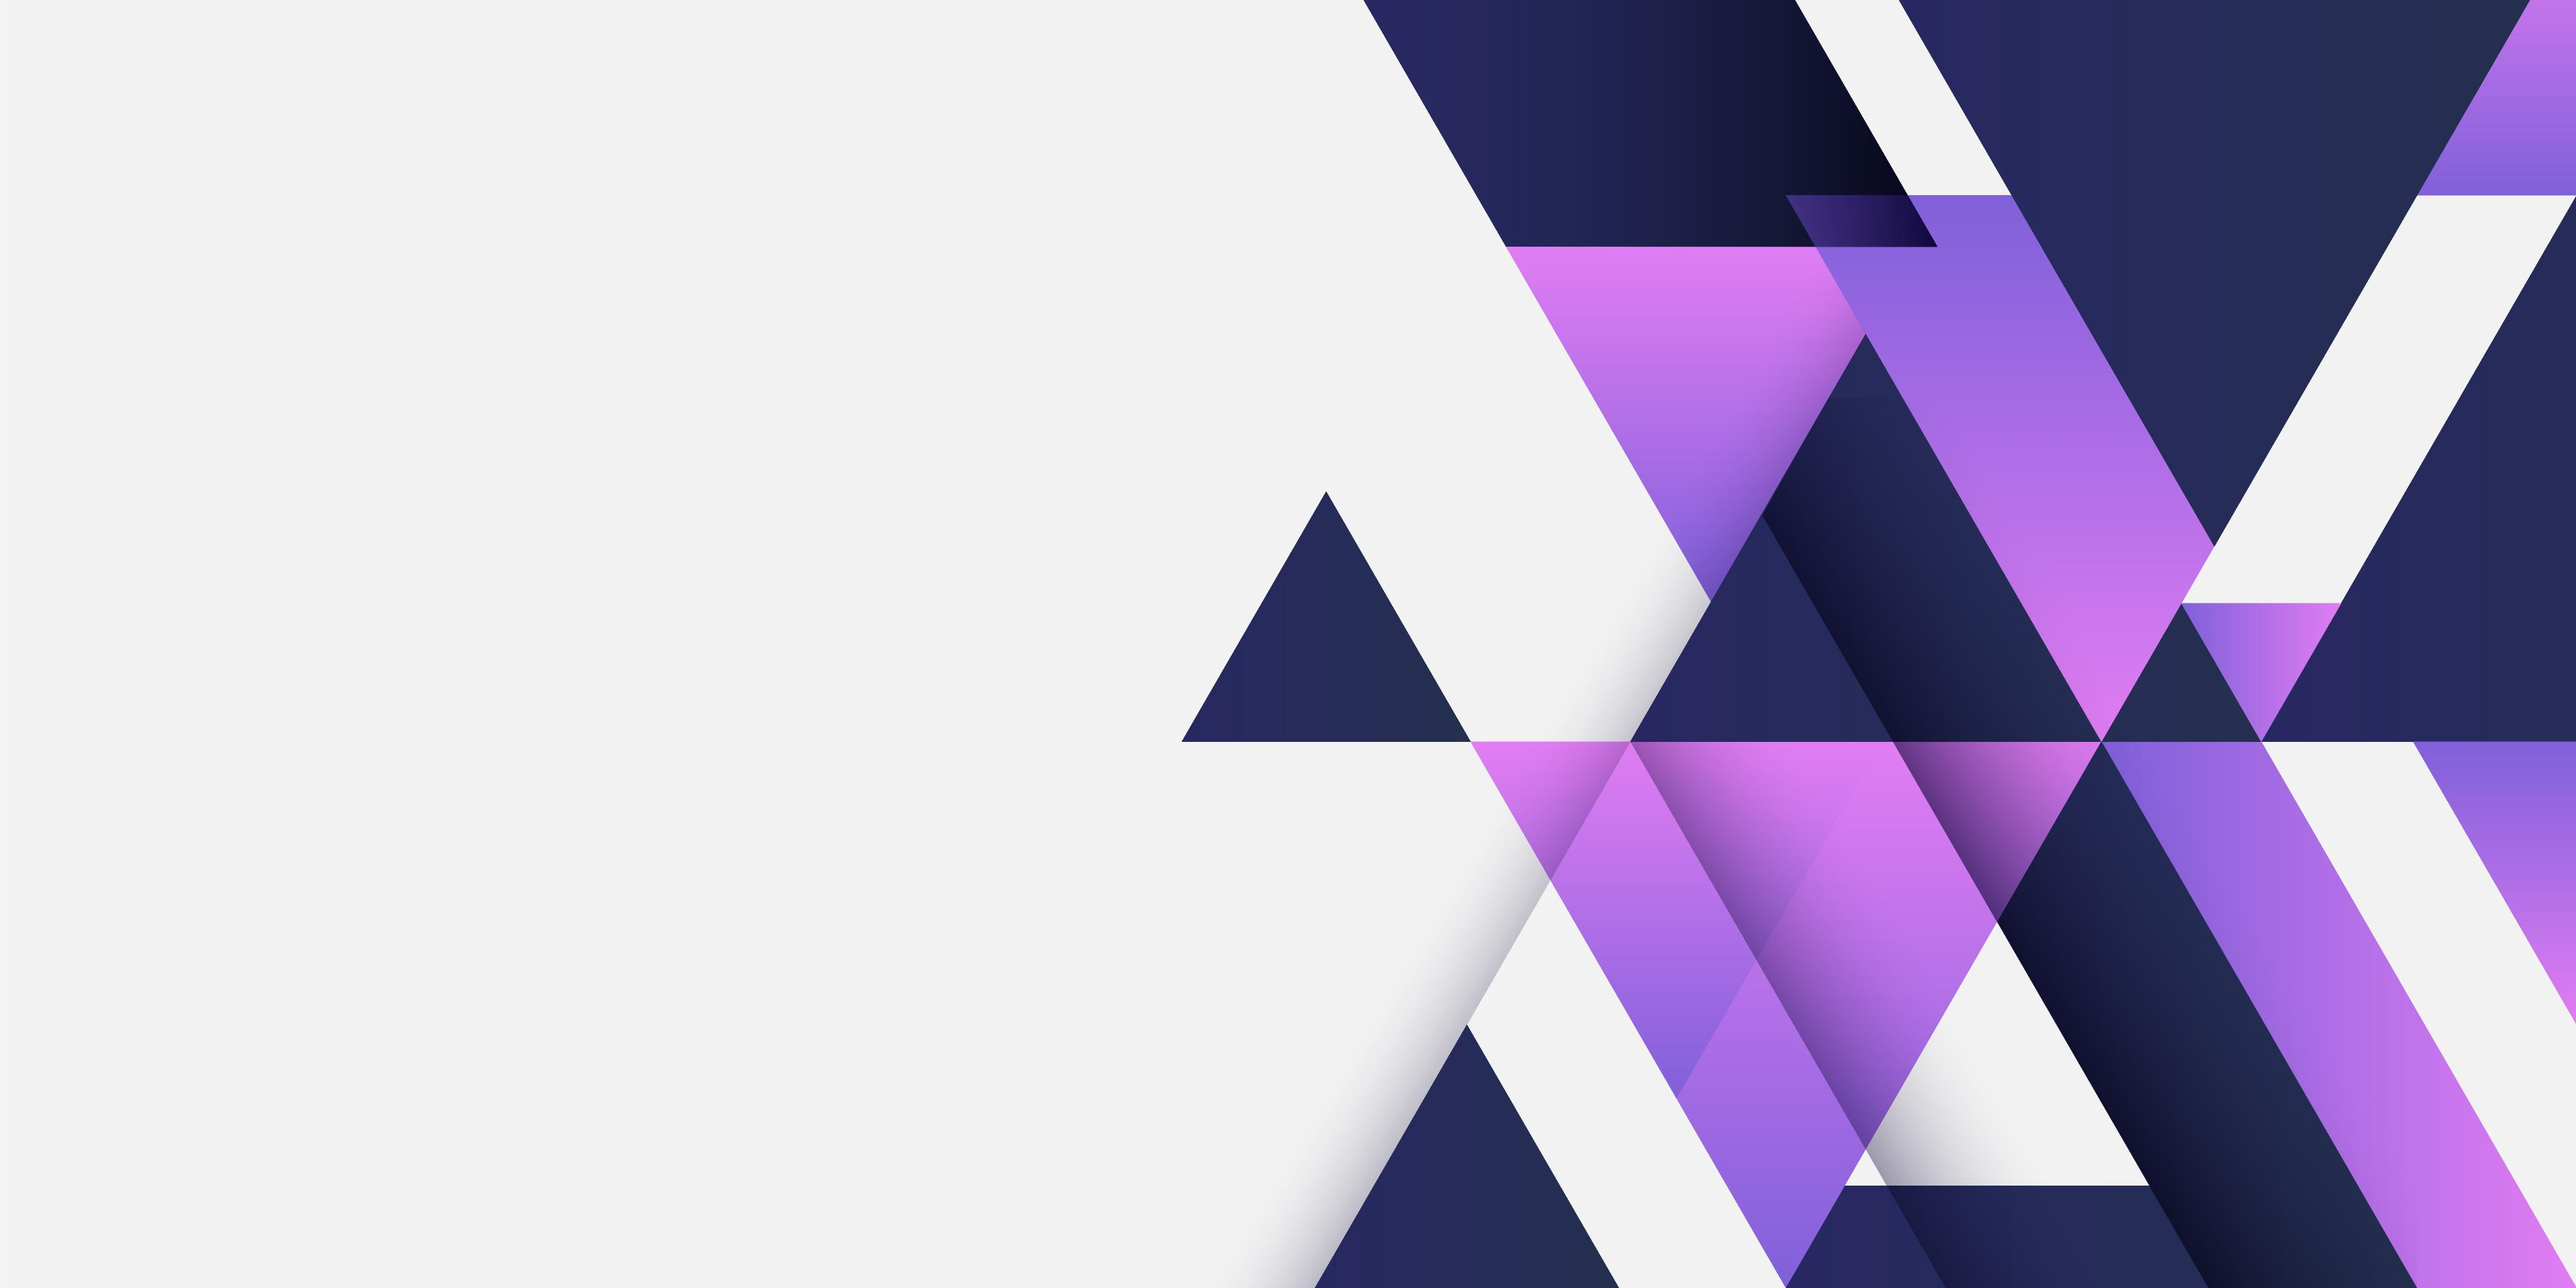
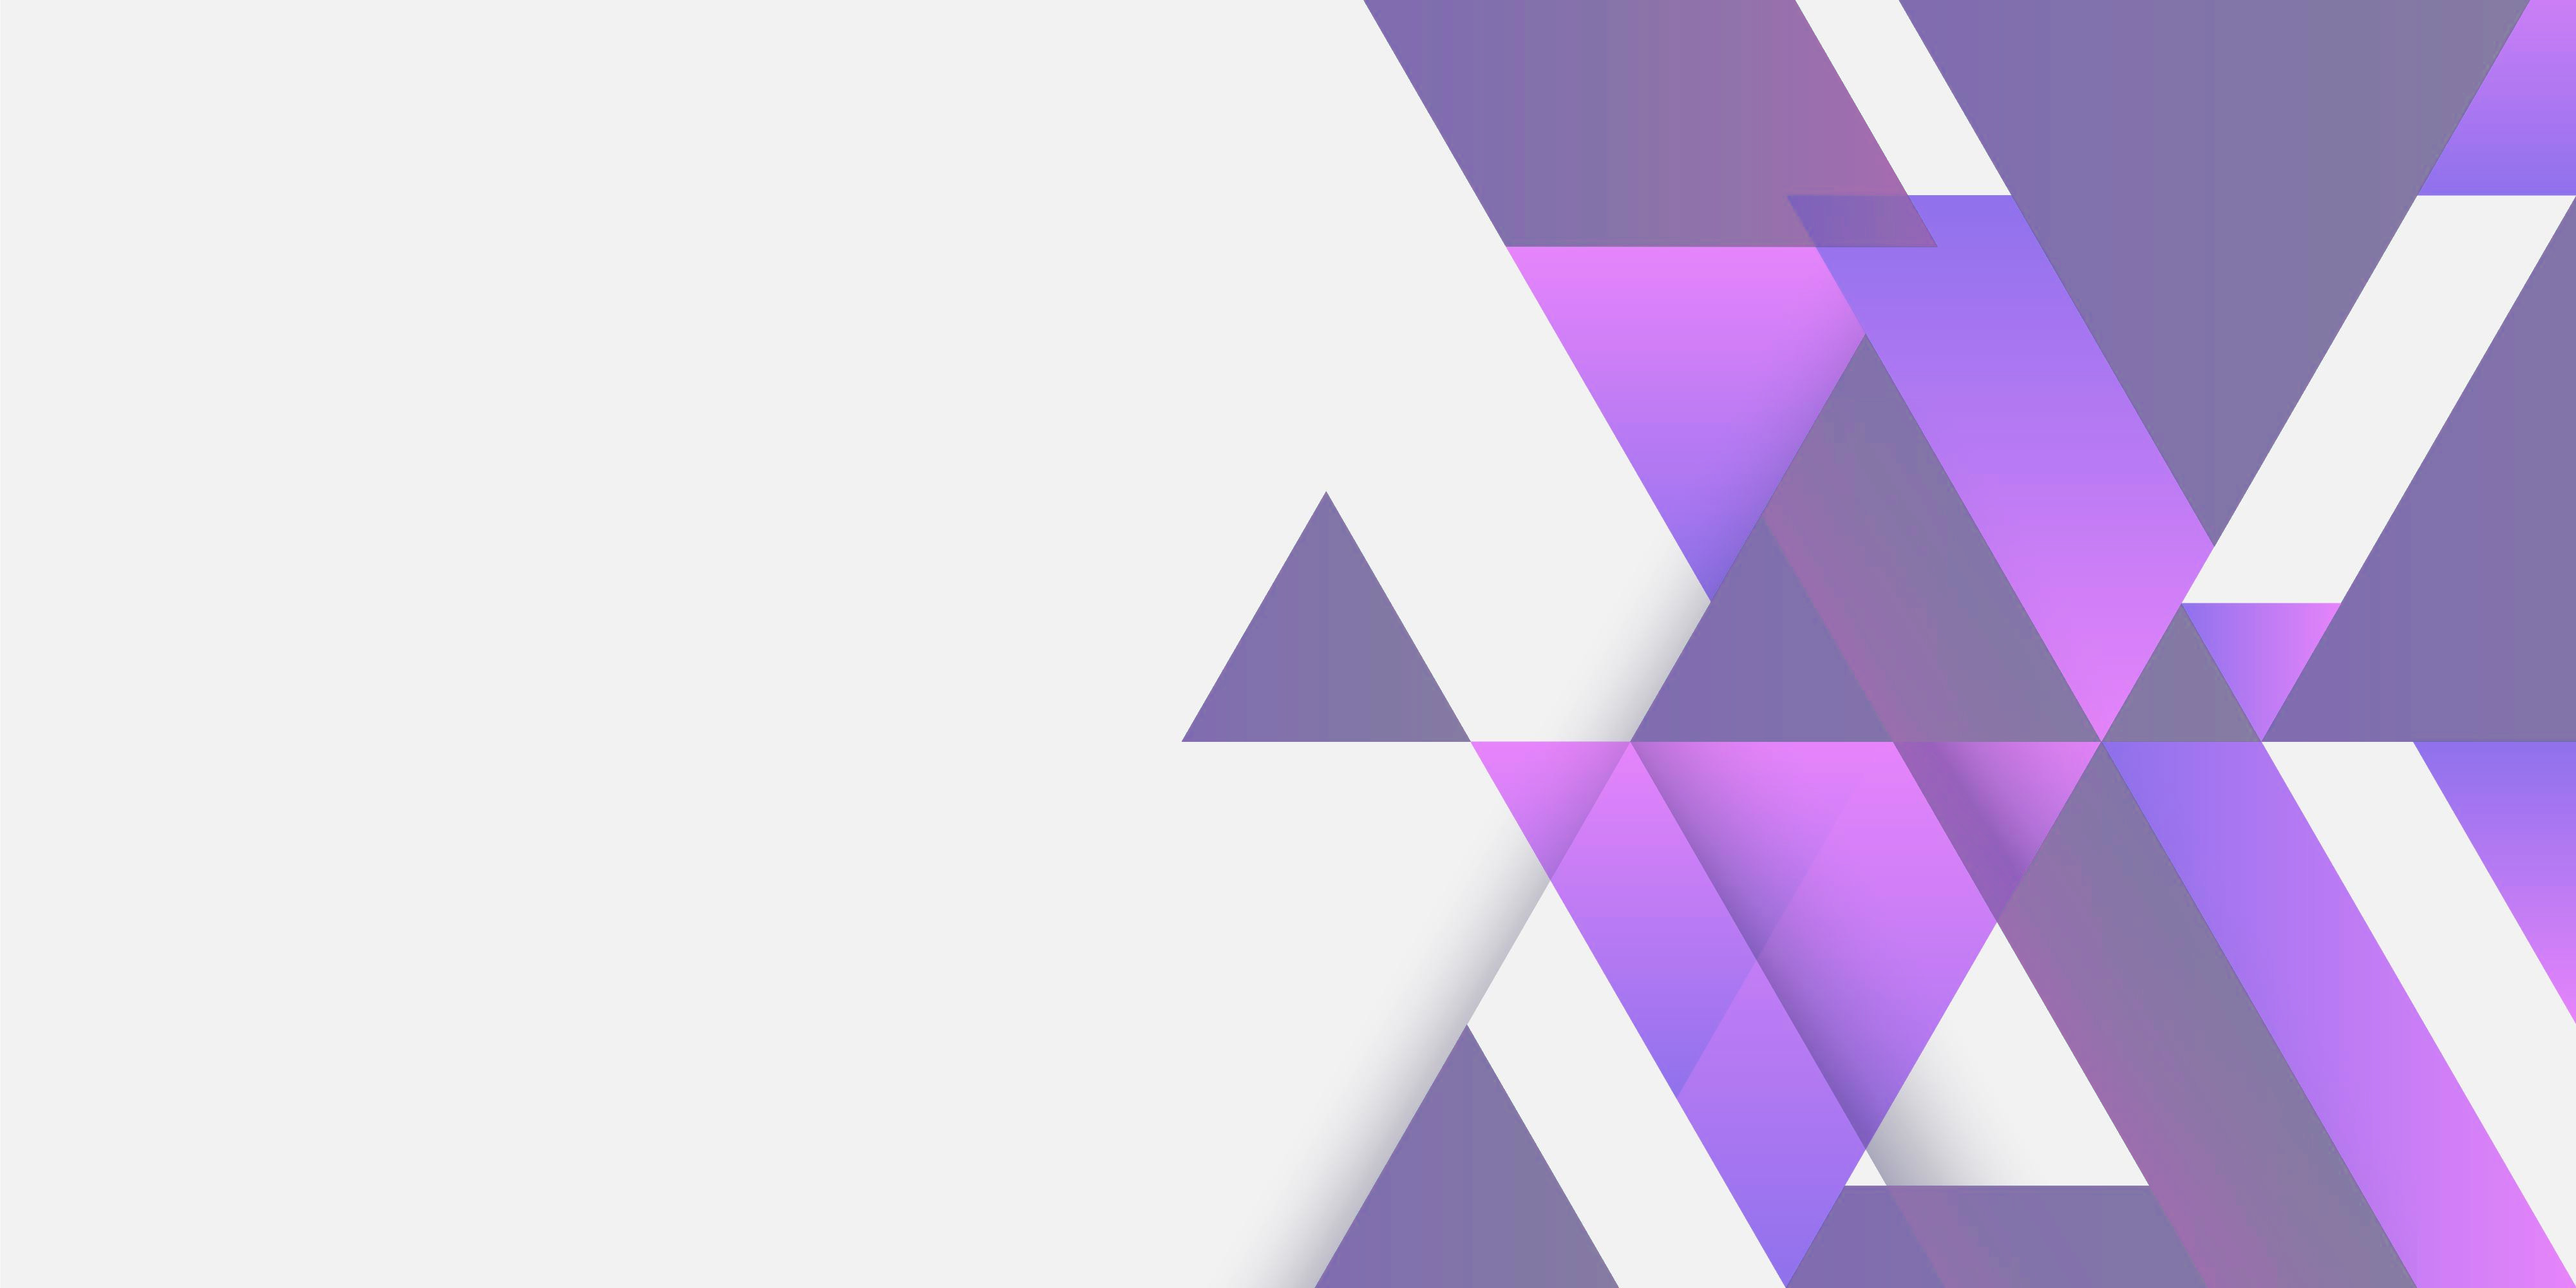
Tests fond

diff --git a/appSoutenance/static/styles_generaux.css b/appSoutenance/static/styles_generaux.css
@@ -23,7 +23,7 @@
 
 body{
     /* style */
-    background: url(images/fond8.jpg) no-repeat;
+    background: url(images/fond6.jpg) no-repeat;
     background-position: center;
     background-size: cover;
     background-attachment: fixed;
